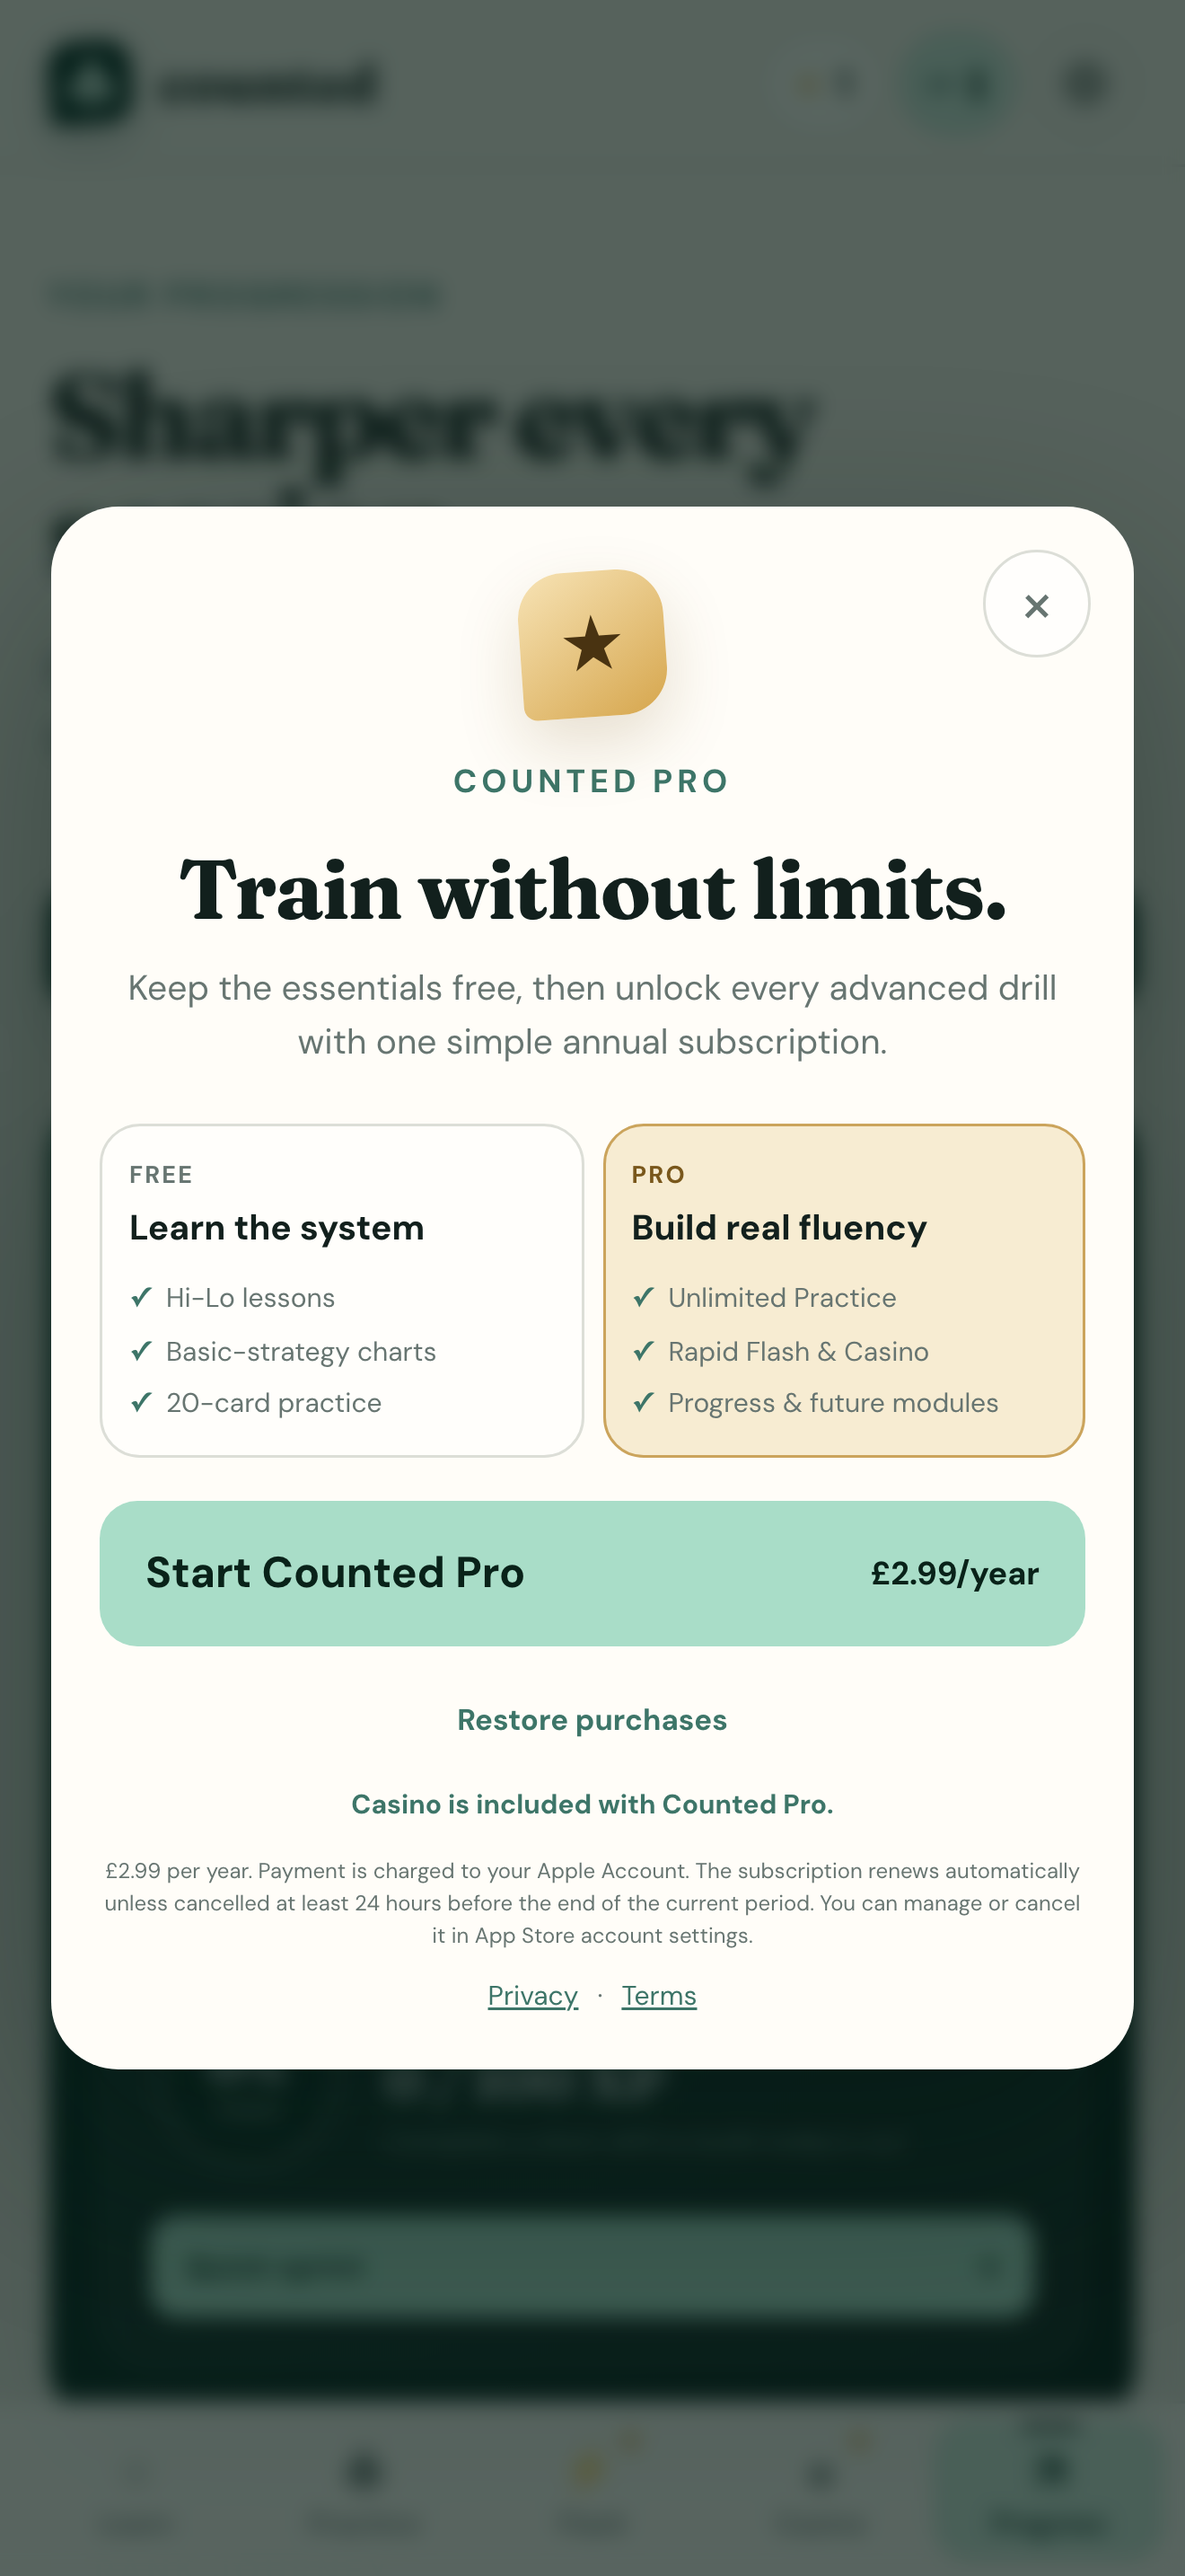
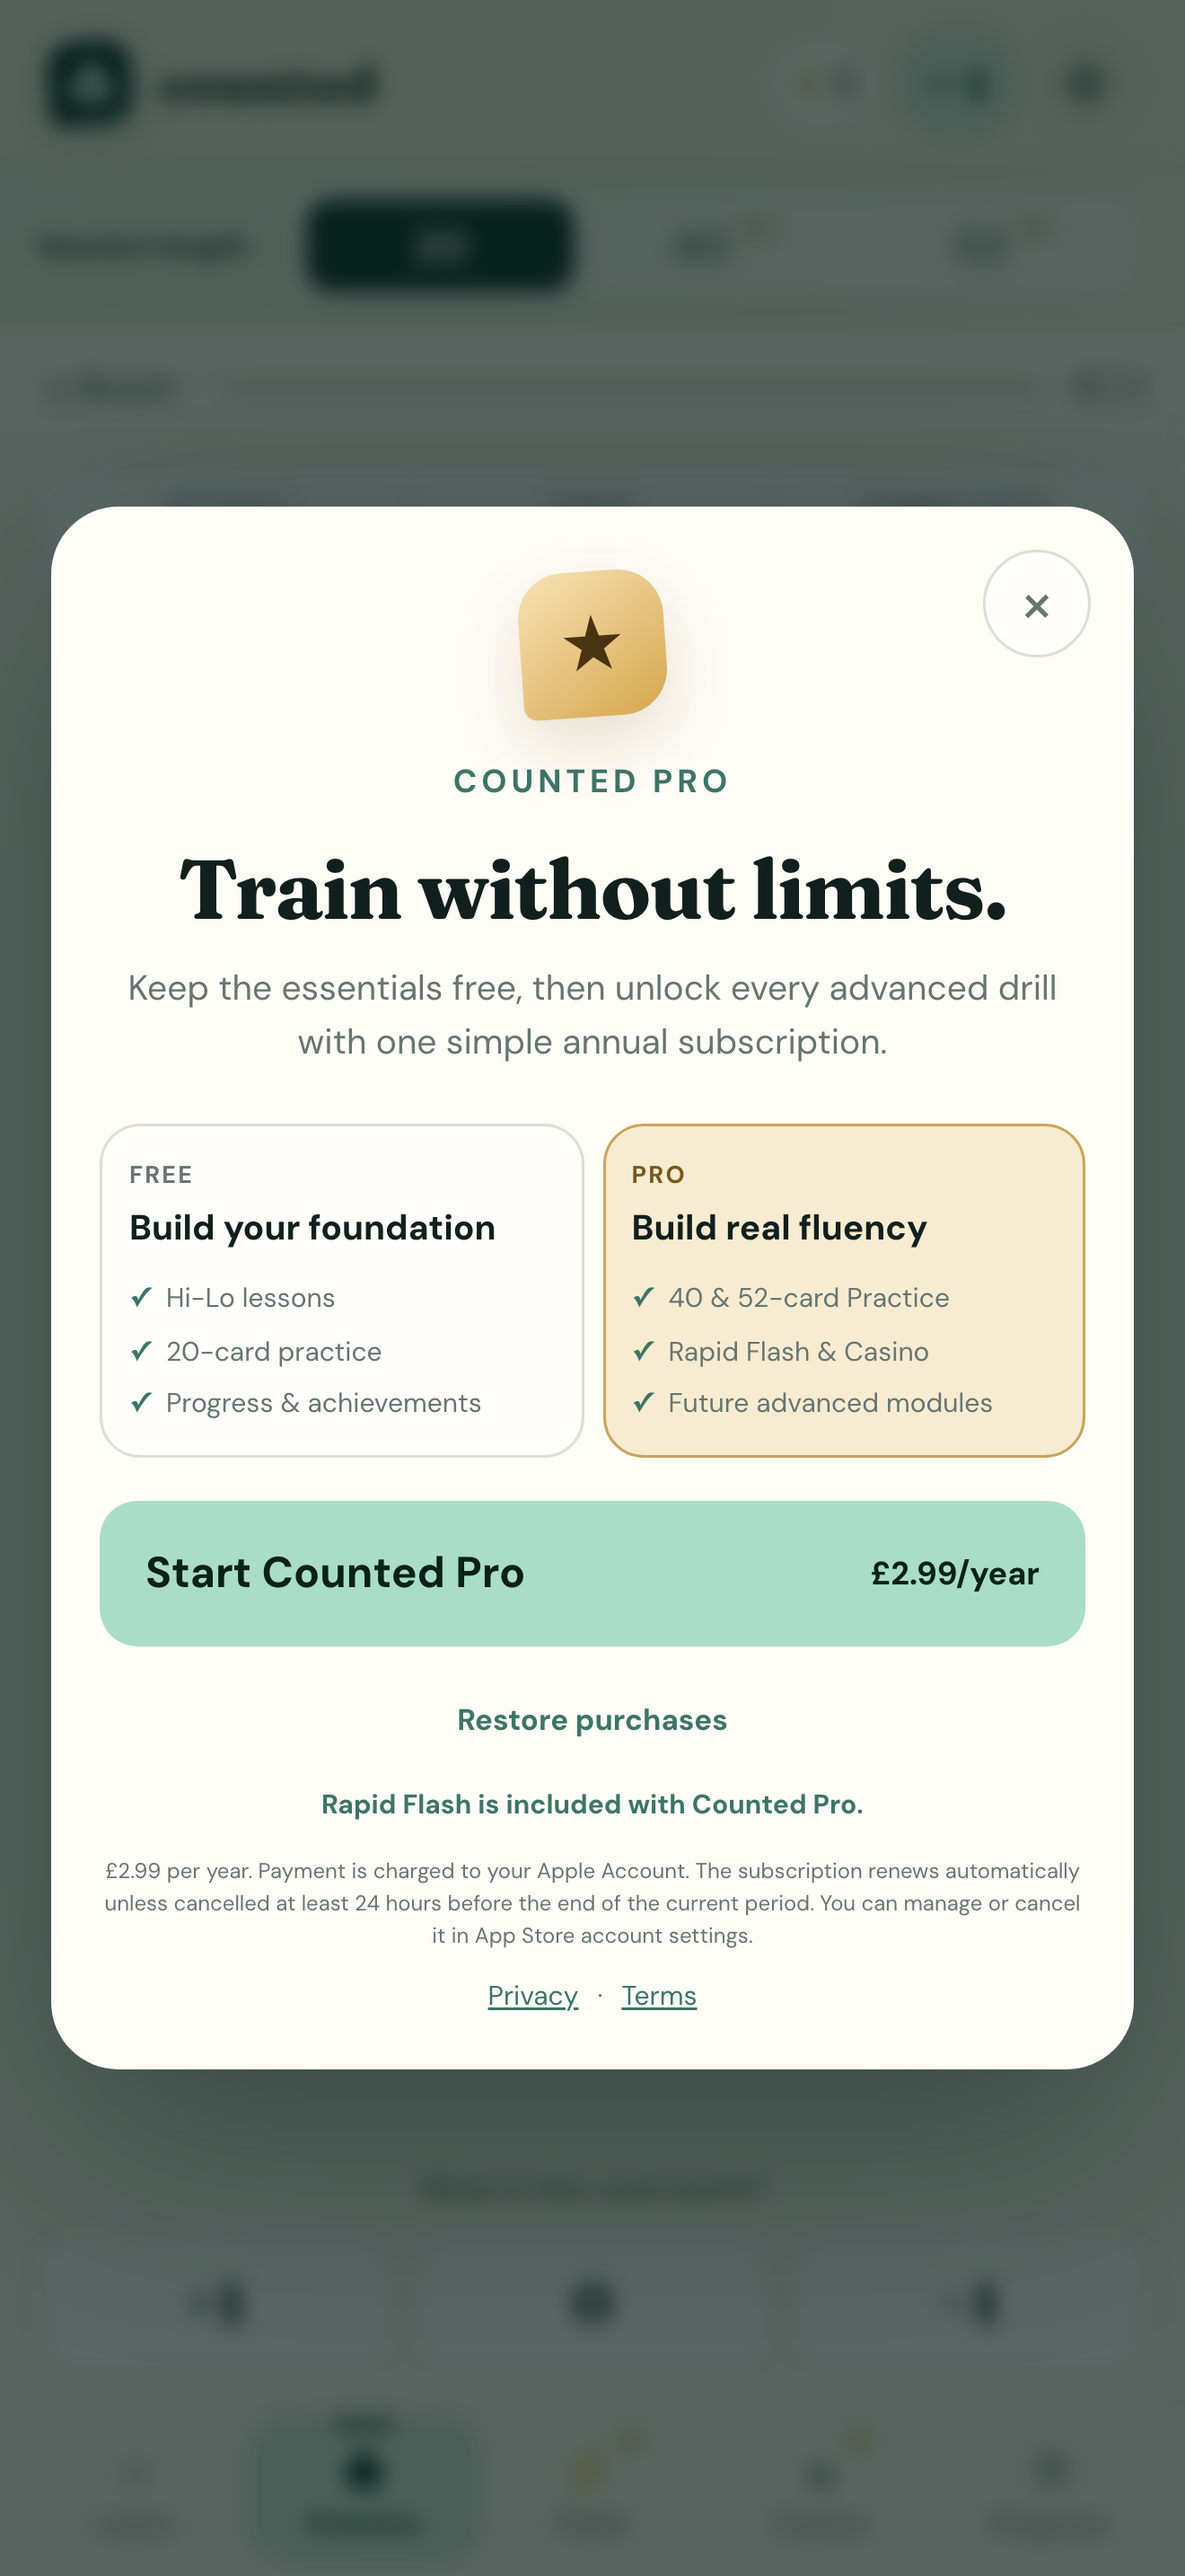
Make progress free and add support contact

diff --git a/index.html b/index.html
@@ -22,7 +22,7 @@
         } catch { document.documentElement.dataset.theme = "light"; }
       })();
     </script>
-    <link rel="stylesheet" href="styles.css?v=32" />
+    <link rel="stylesheet" href="styles.css?v=33" />
     <title>Counted — Blackjack Trainer</title>
   </head>
   <body>
@@ -38,7 +38,7 @@
           <button class="active" data-nav="practice" aria-current="page">Practice</button>
           <button data-nav="flash" data-pro-feature>Flash</button>
           <button data-nav="casino" data-pro-feature>Casino</button>
-          <button data-nav="progress" data-pro-feature>Progress</button>
+          <button data-nav="progress">Progress</button>
         </nav>
 
         <div class="topbar-actions">
@@ -442,7 +442,7 @@
         <button class="active" data-nav="practice" aria-current="page"><span aria-hidden="true">♠</span>Practice</button>
         <button data-nav="flash" data-pro-feature><span aria-hidden="true">⚡</span>Flash</button>
         <button data-nav="casino" data-pro-feature><span aria-hidden="true">◆</span>Casino</button>
-        <button data-nav="progress" data-pro-feature><span aria-hidden="true">↗</span>Progress</button>
+        <button data-nav="progress"><span aria-hidden="true">↗</span>Progress</button>
       </nav>
     </div>
 
@@ -464,7 +464,7 @@
         </button>
         <button class="settings-row subscription-row" id="subscription-open" aria-label="View Counted Pro">
           <span class="settings-icon pro-settings-icon" aria-hidden="true">★</span>
-          <span><strong>Counted Pro</strong><small id="subscription-setting-copy">Unlimited drills, Casino, Flash and Progress</small></span>
+          <span><strong>Counted Pro</strong><small id="subscription-setting-copy">Longer drills, Rapid Flash and Casino</small></span>
           <b id="subscription-setting-value">£2.99/year</b>
         </button>
         <a class="settings-row" href="privacy.html">
@@ -489,8 +489,8 @@
       <h2 id="paywall-title">Train without limits.</h2>
       <p id="paywall-copy">Keep the essentials free, then unlock every advanced drill with one simple annual subscription.</p>
       <div class="plan-grid" aria-label="Counted plans">
-        <section><span>Free</span><strong>Learn the system</strong><ul><li>Hi-Lo lessons</li><li>Basic-strategy charts</li><li>20-card practice</li></ul></section>
-        <section class="pro-plan"><span>Pro</span><strong>Build real fluency</strong><ul><li>Unlimited Practice</li><li>Rapid Flash &amp; Casino</li><li>Progress &amp; future modules</li></ul></section>
+        <section><span>Free</span><strong>Build your foundation</strong><ul><li>Hi-Lo lessons</li><li>20-card practice</li><li>Progress &amp; achievements</li></ul></section>
+        <section class="pro-plan"><span>Pro</span><strong>Build real fluency</strong><ul><li>40 &amp; 52-card Practice</li><li>Rapid Flash &amp; Casino</li><li>Future advanced modules</li></ul></section>
       </div>
       <button class="subscribe-button" id="subscribe-button" type="button"><span>Start Counted Pro</span><strong id="subscribe-price">£2.99/year</strong></button>
       <button class="restore-button" id="restore-purchases" type="button">Restore purchases</button>
@@ -583,7 +583,7 @@
 
     <div class="app-toast" id="app-toast" role="status" hidden><span id="app-toast-copy">Ready offline.</span><button id="app-toast-close" aria-label="Dismiss">×</button></div>
 
-    <script src="counted-core.js?v=32" defer></script>
-    <script src="app.js?v=32" defer></script>
+    <script src="counted-core.js?v=33" defer></script>
+    <script src="app.js?v=33" defer></script>
   </body>
 </html>

diff --git a/public/trainer/index.html b/public/trainer/index.html
@@ -22,7 +22,7 @@
         } catch { document.documentElement.dataset.theme = "light"; }
       })();
     </script>
-    <link rel="stylesheet" href="styles.css?v=32" />
+    <link rel="stylesheet" href="styles.css?v=33" />
     <title>Counted — Blackjack Trainer</title>
   </head>
   <body>
@@ -38,7 +38,7 @@
           <button class="active" data-nav="practice" aria-current="page">Practice</button>
           <button data-nav="flash" data-pro-feature>Flash</button>
           <button data-nav="casino" data-pro-feature>Casino</button>
-          <button data-nav="progress" data-pro-feature>Progress</button>
+          <button data-nav="progress">Progress</button>
         </nav>
 
         <div class="topbar-actions">
@@ -442,7 +442,7 @@
         <button class="active" data-nav="practice" aria-current="page"><span aria-hidden="true">♠</span>Practice</button>
         <button data-nav="flash" data-pro-feature><span aria-hidden="true">⚡</span>Flash</button>
         <button data-nav="casino" data-pro-feature><span aria-hidden="true">◆</span>Casino</button>
-        <button data-nav="progress" data-pro-feature><span aria-hidden="true">↗</span>Progress</button>
+        <button data-nav="progress"><span aria-hidden="true">↗</span>Progress</button>
       </nav>
     </div>
 
@@ -464,7 +464,7 @@
         </button>
         <button class="settings-row subscription-row" id="subscription-open" aria-label="View Counted Pro">
           <span class="settings-icon pro-settings-icon" aria-hidden="true">★</span>
-          <span><strong>Counted Pro</strong><small id="subscription-setting-copy">Unlimited drills, Casino, Flash and Progress</small></span>
+          <span><strong>Counted Pro</strong><small id="subscription-setting-copy">Longer drills, Rapid Flash and Casino</small></span>
           <b id="subscription-setting-value">£2.99/year</b>
         </button>
         <a class="settings-row" href="privacy.html">
@@ -489,8 +489,8 @@
       <h2 id="paywall-title">Train without limits.</h2>
       <p id="paywall-copy">Keep the essentials free, then unlock every advanced drill with one simple annual subscription.</p>
       <div class="plan-grid" aria-label="Counted plans">
-        <section><span>Free</span><strong>Learn the system</strong><ul><li>Hi-Lo lessons</li><li>Basic-strategy charts</li><li>20-card practice</li></ul></section>
-        <section class="pro-plan"><span>Pro</span><strong>Build real fluency</strong><ul><li>Unlimited Practice</li><li>Rapid Flash &amp; Casino</li><li>Progress &amp; future modules</li></ul></section>
+        <section><span>Free</span><strong>Build your foundation</strong><ul><li>Hi-Lo lessons</li><li>20-card practice</li><li>Progress &amp; achievements</li></ul></section>
+        <section class="pro-plan"><span>Pro</span><strong>Build real fluency</strong><ul><li>40 &amp; 52-card Practice</li><li>Rapid Flash &amp; Casino</li><li>Future advanced modules</li></ul></section>
       </div>
       <button class="subscribe-button" id="subscribe-button" type="button"><span>Start Counted Pro</span><strong id="subscribe-price">£2.99/year</strong></button>
       <button class="restore-button" id="restore-purchases" type="button">Restore purchases</button>
@@ -583,7 +583,7 @@
 
     <div class="app-toast" id="app-toast" role="status" hidden><span id="app-toast-copy">Ready offline.</span><button id="app-toast-close" aria-label="Dismiss">×</button></div>
 
-    <script src="counted-core.js?v=32" defer></script>
-    <script src="app.js?v=32" defer></script>
+    <script src="counted-core.js?v=33" defer></script>
+    <script src="app.js?v=33" defer></script>
   </body>
 </html>

diff --git a/app.js b/app.js
@@ -226,7 +226,7 @@ function renderSubscriptionUI() {
   $("#subscription-setting-value").textContent = subscriptionState.isPro ? "Active" : `${price}/year`;
   $("#subscription-setting-copy").textContent = subscriptionState.isPro
     ? "All advanced training is unlocked"
-    : "Unlimited drills, Casino, Flash and Progress";
+    : "Longer drills, Rapid Flash and Casino";
   $("#subscription-open").setAttribute("aria-label", subscriptionState.isPro ? "Counted Pro active, view subscription" : "View Counted Pro");
   $("#manage-subscription").hidden = !subscriptionState.isPro;
   $("#subscribe-button").disabled = subscriptionState.isPro;
@@ -239,7 +239,7 @@ function renderSubscriptionUI() {
 }
 
 function showPaywall(requestedFeature = "") {
-  const featureNames = { flash: "Rapid Flash", casino: "Casino", progress: "Progress", practice: "longer practice sessions" };
+  const featureNames = { flash: "Rapid Flash", casino: "Casino", practice: "longer practice sessions" };
   const feature = featureNames[requestedFeature];
   $("#purchase-feedback").textContent = feature ? `${feature} is included with Counted Pro.` : "";
   if (!$("#paywall-dialog").open) $("#paywall-dialog").showModal();

diff --git a/public/trainer/app.js b/public/trainer/app.js
@@ -226,7 +226,7 @@ function renderSubscriptionUI() {
   $("#subscription-setting-value").textContent = subscriptionState.isPro ? "Active" : `${price}/year`;
   $("#subscription-setting-copy").textContent = subscriptionState.isPro
     ? "All advanced training is unlocked"
-    : "Unlimited drills, Casino, Flash and Progress";
+    : "Longer drills, Rapid Flash and Casino";
   $("#subscription-open").setAttribute("aria-label", subscriptionState.isPro ? "Counted Pro active, view subscription" : "View Counted Pro");
   $("#manage-subscription").hidden = !subscriptionState.isPro;
   $("#subscribe-button").disabled = subscriptionState.isPro;
@@ -239,7 +239,7 @@ function renderSubscriptionUI() {
 }
 
 function showPaywall(requestedFeature = "") {
-  const featureNames = { flash: "Rapid Flash", casino: "Casino", progress: "Progress", practice: "longer practice sessions" };
+  const featureNames = { flash: "Rapid Flash", casino: "Casino", practice: "longer practice sessions" };
   const feature = featureNames[requestedFeature];
   $("#purchase-feedback").textContent = feature ? `${feature} is included with Counted Pro.` : "";
   if (!$("#paywall-dialog").open) $("#paywall-dialog").showModal();

diff --git a/public/trainer/support.html b/public/trainer/support.html
@@ -8,7 +8,7 @@
     <script>
       try { document.documentElement.dataset.theme = localStorage.getItem("counted-theme") || "light"; } catch { document.documentElement.dataset.theme = "light"; }
     </script>
-    <link rel="stylesheet" href="styles.css?v=32" />
+    <link rel="stylesheet" href="styles.css?v=33" />
     <title>Support — Counted</title>
   </head>
   <body class="legal-page">
@@ -36,7 +36,7 @@
       </section>
       <section>
         <h2>Contact</h2>
-        <p class="support-contact-pending"><strong>Release input required:</strong> replace <code>SUPPORT_EMAIL_GOES_HERE</code> with the free public support address before submission.</p>
+        <p>Email <a href="mailto:counted.help@outlook.com">counted.help@outlook.com</a>. We aim to reply to support enquiries as soon as practical.</p>
         <p>When reporting a problem, include the Counted version, iPhone model, iOS version and what happened immediately before the issue.</p>
       </section>
       <p class="legal-footer">Counted 1.0 (2) · © 2026 James Holland · <a href="privacy.html">Privacy policy</a></p>

diff --git a/support.html b/support.html
@@ -8,7 +8,7 @@
     <script>
       try { document.documentElement.dataset.theme = localStorage.getItem("counted-theme") || "light"; } catch { document.documentElement.dataset.theme = "light"; }
     </script>
-    <link rel="stylesheet" href="styles.css?v=32" />
+    <link rel="stylesheet" href="styles.css?v=33" />
     <title>Support — Counted</title>
   </head>
   <body class="legal-page">
@@ -36,7 +36,7 @@
       </section>
       <section>
         <h2>Contact</h2>
-        <p class="support-contact-pending"><strong>Release input required:</strong> replace <code>SUPPORT_EMAIL_GOES_HERE</code> with the free public support address before submission.</p>
+        <p>Email <a href="mailto:counted.help@outlook.com">counted.help@outlook.com</a>. We aim to reply to support enquiries as soon as practical.</p>
         <p>When reporting a problem, include the Counted version, iPhone model, iOS version and what happened immediately before the issue.</p>
       </section>
       <p class="legal-footer">Counted 1.0 (2) · © 2026 James Holland · <a href="privacy.html">Privacy policy</a></p>

diff --git a/privacy.html b/privacy.html
@@ -8,7 +8,7 @@
     <script>
       try { document.documentElement.dataset.theme = localStorage.getItem("counted-theme") || "light"; } catch { document.documentElement.dataset.theme = "light"; }
     </script>
-    <link rel="stylesheet" href="styles.css?v=32" />
+    <link rel="stylesheet" href="styles.css?v=33" />
     <title>Privacy Policy — Counted</title>
   </head>
   <body class="legal-page">
@@ -40,7 +40,7 @@
       </section>
       <section>
         <h2>Changes and contact</h2>
-        <p>Material changes will be reflected on this page with a new effective date. Privacy enquiries can be made through the contact method on the <a href="support.html">Counted support page</a>.</p>
+        <p>Material changes will be reflected on this page with a new effective date. Privacy enquiries can be sent to <a href="mailto:counted.help@outlook.com">counted.help@outlook.com</a>.</p>
       </section>
     </main>
   </body>

diff --git a/public/trainer/privacy.html b/public/trainer/privacy.html
@@ -8,7 +8,7 @@
     <script>
       try { document.documentElement.dataset.theme = localStorage.getItem("counted-theme") || "light"; } catch { document.documentElement.dataset.theme = "light"; }
     </script>
-    <link rel="stylesheet" href="styles.css?v=32" />
+    <link rel="stylesheet" href="styles.css?v=33" />
     <title>Privacy Policy — Counted</title>
   </head>
   <body class="legal-page">
@@ -40,7 +40,7 @@
       </section>
       <section>
         <h2>Changes and contact</h2>
-        <p>Material changes will be reflected on this page with a new effective date. Privacy enquiries can be made through the contact method on the <a href="support.html">Counted support page</a>.</p>
+        <p>Material changes will be reflected on this page with a new effective date. Privacy enquiries can be sent to <a href="mailto:counted.help@outlook.com">counted.help@outlook.com</a>.</p>
       </section>
     </main>
   </body>

diff --git a/counted-core.js b/counted-core.js
@@ -5,7 +5,7 @@
 })(typeof globalThis !== "undefined" ? globalThis : this, function () {
   const PRODUCT_ID = "com.jamesholland.counted.pro.annual";
   const FREE_SESSION_LENGTH = 20;
-  const PRO_VIEWS = new Set(["flash", "casino", "progress"]);
+  const PRO_VIEWS = new Set(["flash", "casino"]);
 
   function hiLoValue(rank) {
     if (["2", "3", "4", "5", "6"].includes(rank)) return 1;

diff --git a/public/trainer/counted-core.js b/public/trainer/counted-core.js
@@ -5,7 +5,7 @@
 })(typeof globalThis !== "undefined" ? globalThis : this, function () {
   const PRODUCT_ID = "com.jamesholland.counted.pro.annual";
   const FREE_SESSION_LENGTH = 20;
-  const PRO_VIEWS = new Set(["flash", "casino", "progress"]);
+  const PRO_VIEWS = new Set(["flash", "casino"]);
 
   function hiLoValue(rank) {
     if (["2", "3", "4", "5", "6"].includes(rank)) return 1;

diff --git a/public/trainer/sw.js b/public/trainer/sw.js
@@ -1,11 +1,11 @@
-const CACHE = "counted-v32";
+const CACHE = "counted-v33";
 const ASSETS = [
   "index.html",
   "privacy.html",
   "support.html",
-  "styles.css?v=32",
-  "counted-core.js?v=32",
-  "app.js?v=32",
+  "styles.css?v=33",
+  "counted-core.js?v=33",
+  "app.js?v=33",
   "manifest.webmanifest",
   "assets/icon.svg",
   "assets/icon-192.png",

diff --git a/sw.js b/sw.js
@@ -1,11 +1,11 @@
-const CACHE = "counted-v32";
+const CACHE = "counted-v33";
 const ASSETS = [
   "index.html",
   "privacy.html",
   "support.html",
-  "styles.css?v=32",
-  "counted-core.js?v=32",
-  "app.js?v=32",
+  "styles.css?v=33",
+  "counted-core.js?v=33",
+  "app.js?v=33",
   "manifest.webmanifest",
   "assets/icon.svg",
   "assets/icon-192.png",
